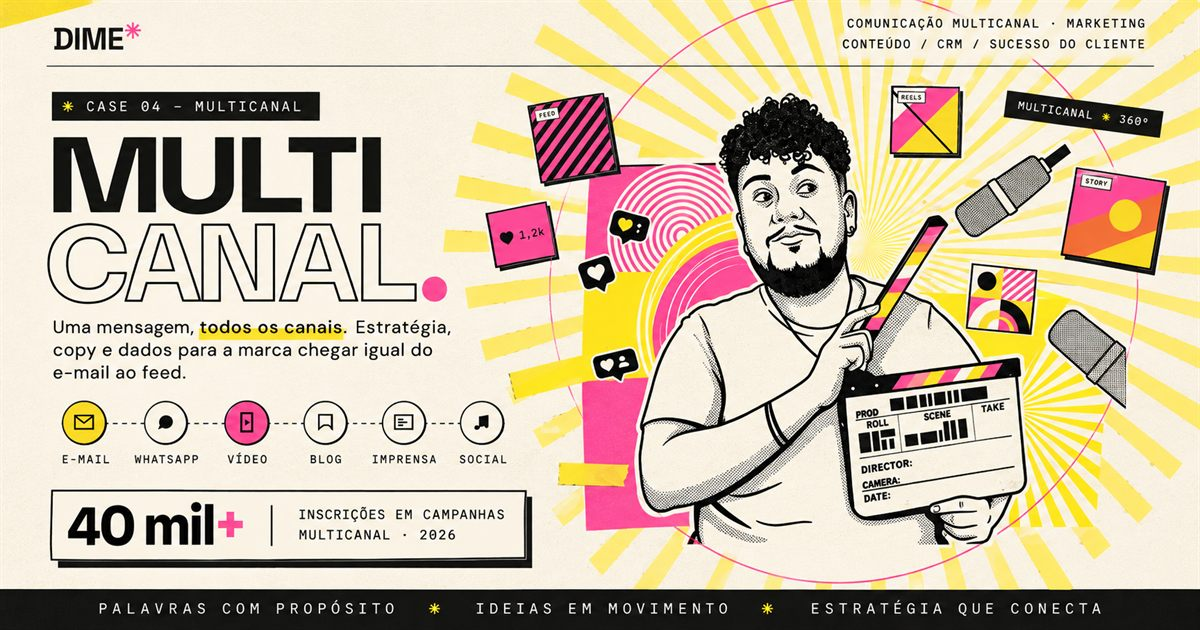
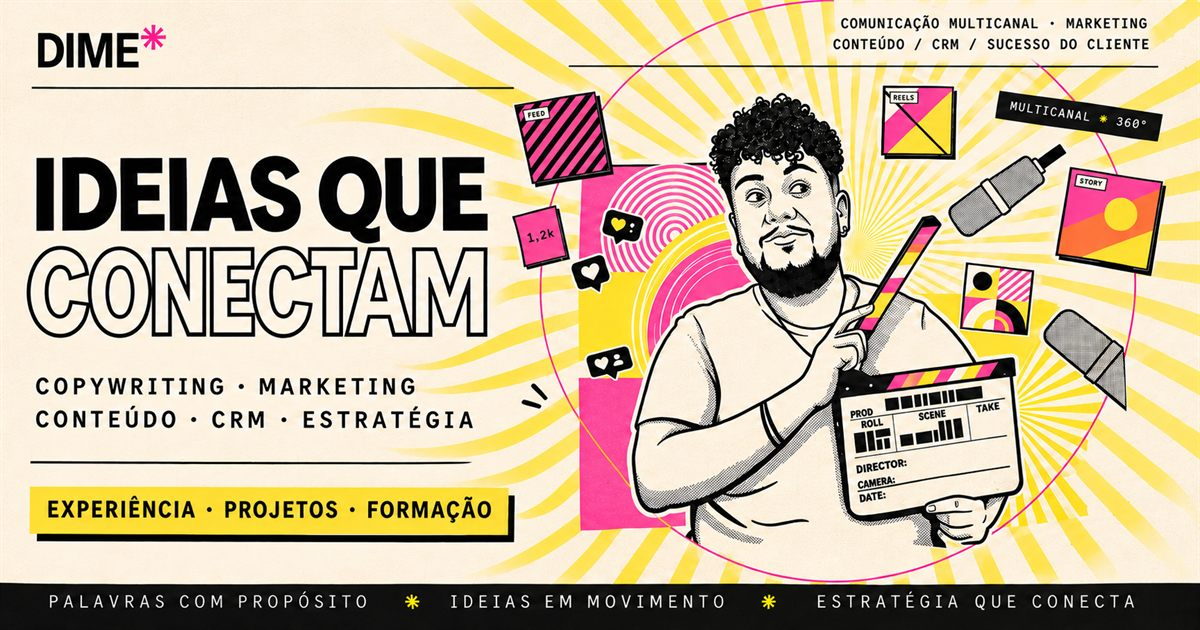
Use updated portfolio share image

diff --git a/index.html b/index.html
@@ -7,15 +7,15 @@
     <meta property="og:title" content="DIME - Diego Mello | Copywriting &amp; Marketing">
     <meta property="og:type" content="website">
     <meta property="og:url" content="https://diegomello-dmp.github.io/dime-portfolio/">
-    <meta property="og:image" content="https://diegomello-dmp.github.io/dime-portfolio/thumb-Link.jpg?v=20261104">
-    <meta property="og:image:secure_url" content="https://diegomello-dmp.github.io/dime-portfolio/thumb-Link.jpg?v=20261104">
+    <meta property="og:image" content="https://diegomello-dmp.github.io/dime-portfolio/thumb-Link.jpg?v=portfolio-refined-20261104">
+    <meta property="og:image:secure_url" content="https://diegomello-dmp.github.io/dime-portfolio/thumb-Link.jpg?v=portfolio-refined-20261104">
     <meta property="og:image:type" content="image/jpeg">
     <meta property="og:image:width" content="1200">
     <meta property="og:image:height" content="630">
     <meta property="og:image:alt" content="DIME — ideias que conectam comunicação, marketing e sucesso do cliente.">
     <meta name="twitter:card" content="summary_large_image">
     <meta name="twitter:title" content="DIME - Diego Mello | Copywriting &amp; Marketing">
-    <meta name="twitter:image" content="https://diegomello-dmp.github.io/dime-portfolio/thumb-Link.jpg?v=20261104">
+    <meta name="twitter:image" content="https://diegomello-dmp.github.io/dime-portfolio/thumb-Link.jpg?v=portfolio-refined-20261104">
     <title>DIME - Diego Mello | Copywriting &amp; Marketing</title>
     <link rel="stylesheet" href="styles.css?v=mobile-orbit-larger-20261104">
   </head>
